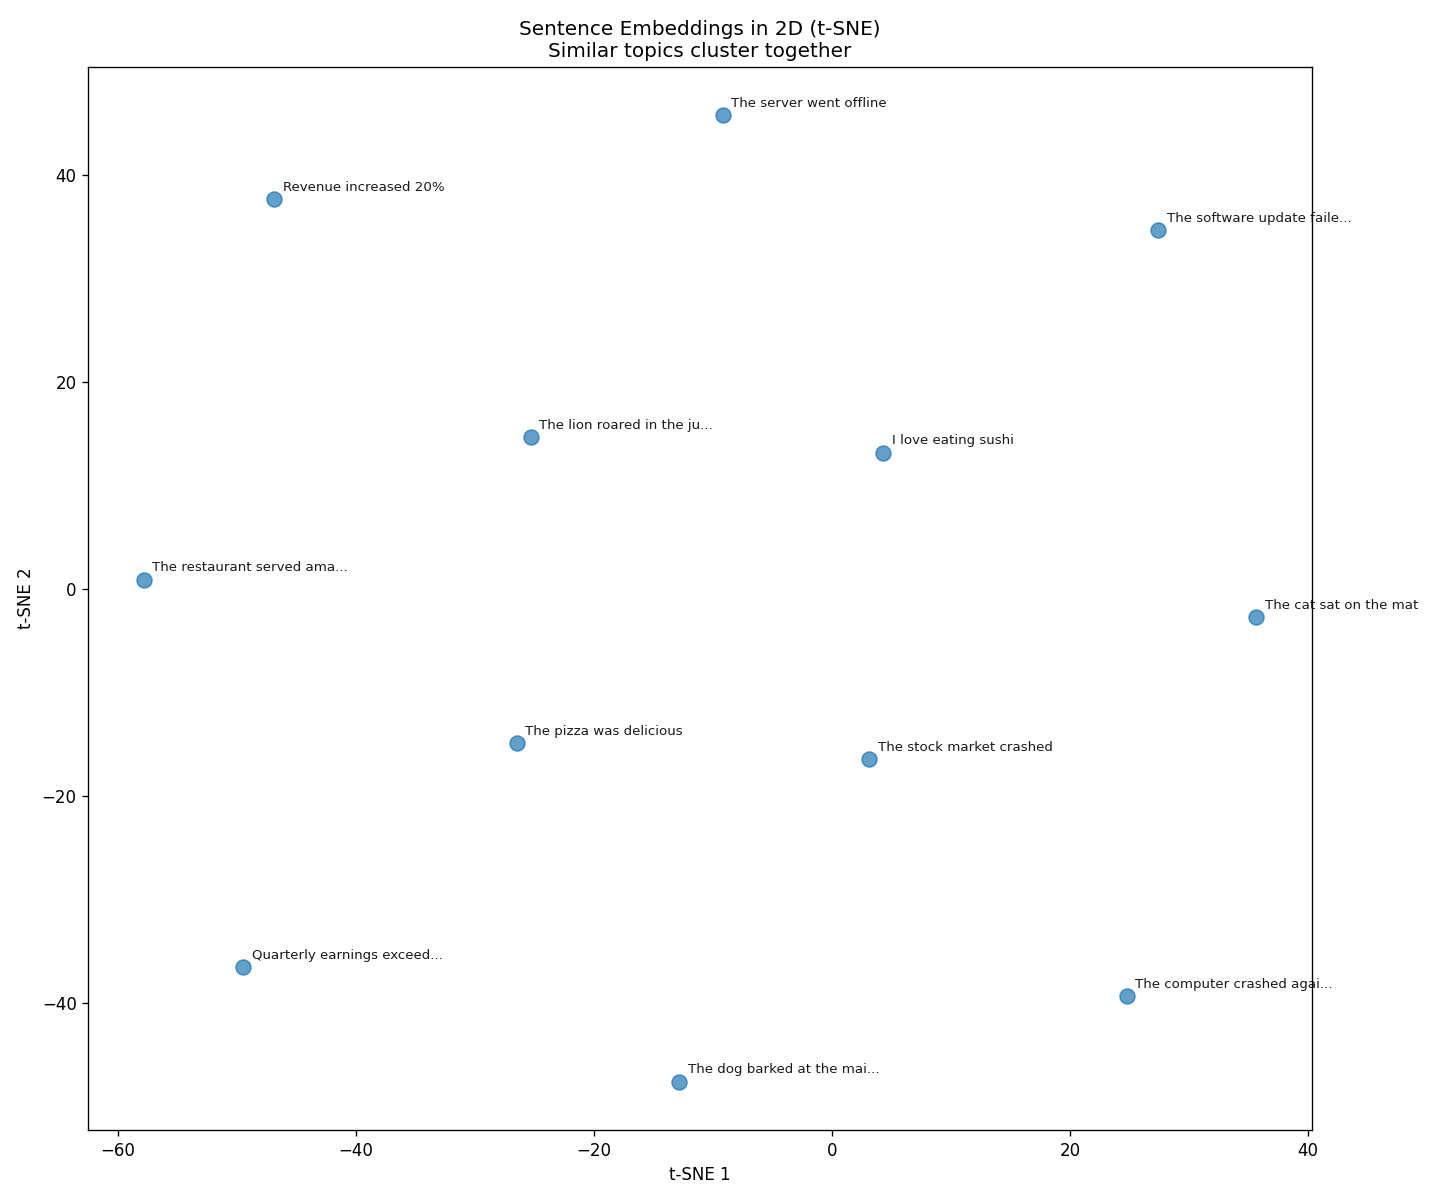
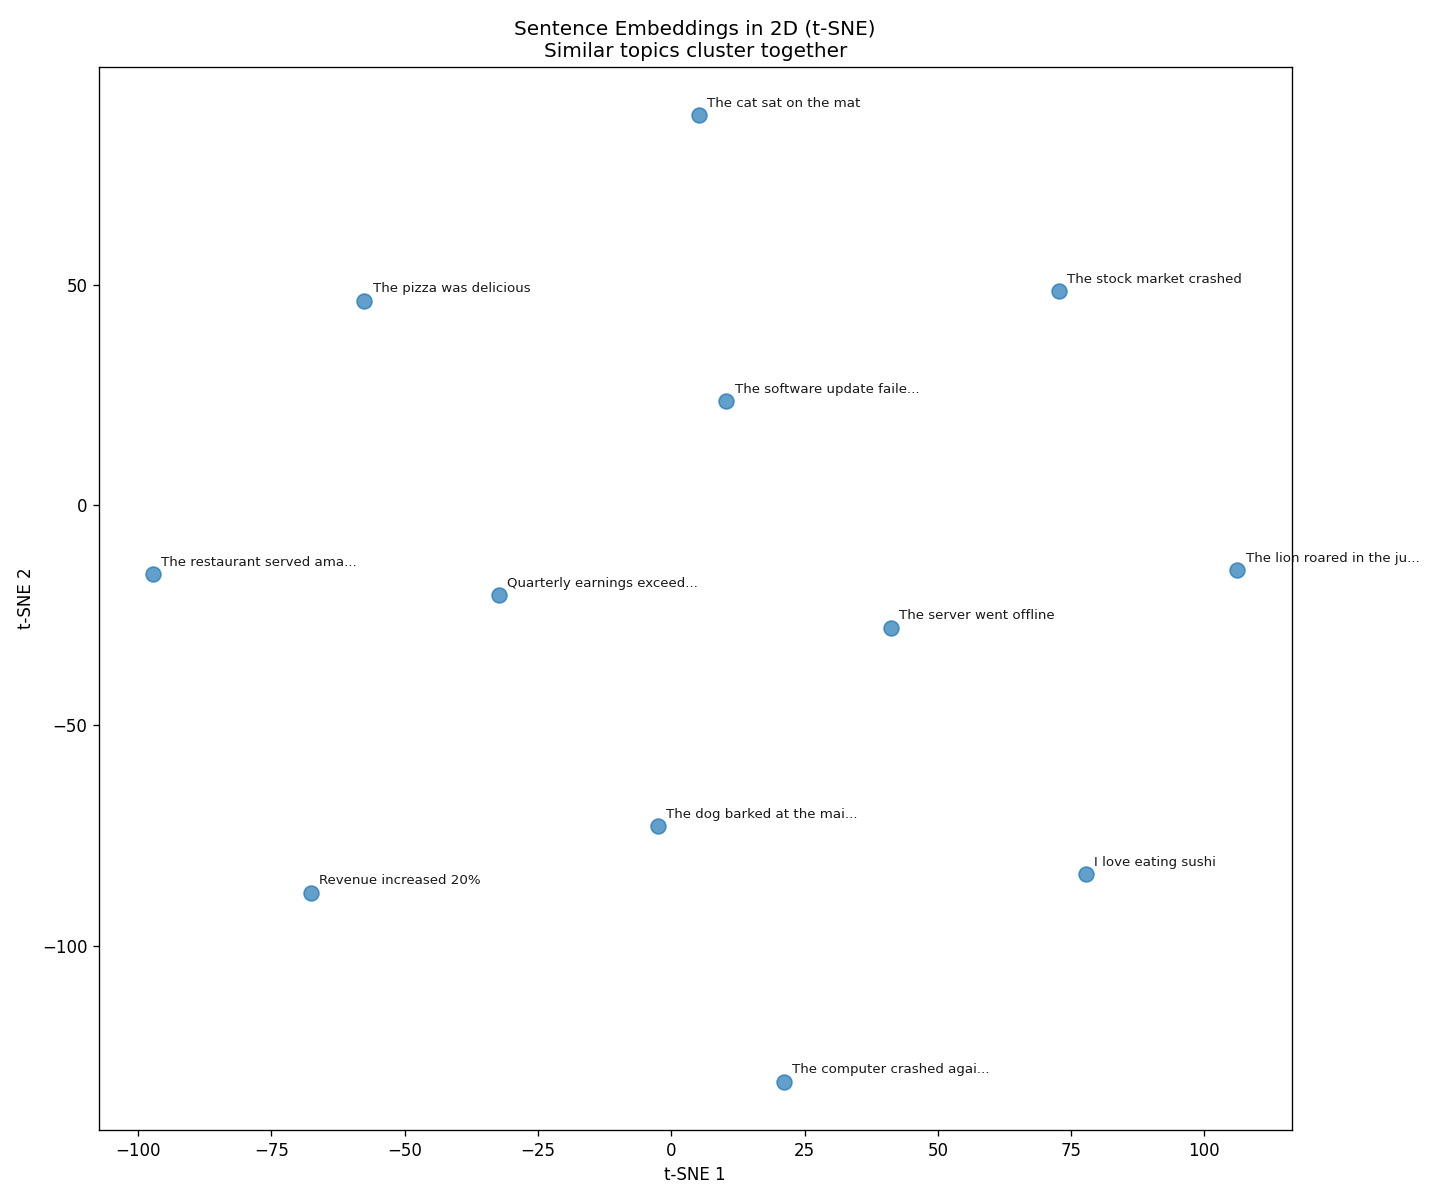
``` chore(Week-4-RAG): update embeddings t-SNE plot visualization
- Replace existing embeddings_tsne_plot.png with updated version
- The new plot reflects improved embedding visualization for RAG system
```

diff --git a/Week-4-RAG/l3_a_embeddings_tsne_viz.py b/Week-4-RAG/l3_a_embeddings_tsne_viz.py
@@ -1,0 +1,95 @@
+import os
+from pathlib import Path
+
+import numpy as np
+import matplotlib.pyplot as plt
+from sklearn.manifold import TSNE
+from openai import OpenAI
+
+# Optional: load .env for OPENAI_API_KEY
+try:
+    from dotenv import load_dotenv
+    load_dotenv()
+except ImportError:
+    pass
+
+SENTENCES = [
+    # Animals
+    "The cat sat on the mat",
+    "The dog barked at the mailman",
+    "The lion roared in the jungle",
+    # Technology
+    "The computer crashed again",
+    "The software update failed",
+    "The server went offline",
+    # Finance
+    "The stock market crashed",
+    "Revenue increased 20%",
+    "Quarterly earnings exceeded expectations",
+    # Food
+    "The pizza was delicious",
+    "I love eating sushi",
+    "The restaurant served amazing pasta",
+]
+
+
+def main():
+    print("=" * 60)
+    print("DEMO: Embeddings → t-SNE 2D Visualization")
+    print("=" * 60)
+
+    if not os.getenv("OPENAI_API_KEY"):
+        print("\n⚠  Set OPENAI_API_KEY (e.g. in .env or export).")
+        return
+
+    client = OpenAI()
+    print(f"\nEmbedding {len(SENTENCES)} sentences with text-embedding-3-small...")
+
+    embeddings = []
+    for sentence in SENTENCES:
+        response = client.embeddings.create(
+            model="text-embedding-3-small", # 1536 dimensions
+            input=sentence,
+        )
+        embeddings.append(response.data[0].embedding)
+
+    embeddings = np.array(embeddings)  # shape: (12, 1536)
+    print(f"  Shape: {embeddings.shape}")
+
+    print("Reducing 1536D → 2D with t-SNE...")
+    n_samples = embeddings.shape[0]
+    perplexity = min(30, max(2, n_samples - 1))  # must be < n_samples
+    tsne = TSNE(n_components=2, perplexity=perplexity, random_state=42)
+    embeddings_2d = tsne.fit_transform(embeddings)
+
+    print("Plotting...")
+    fig, ax = plt.subplots(figsize=(12, 10))
+    ax.scatter(embeddings_2d[:, 0], embeddings_2d[:, 1], s=80, alpha=0.7)
+
+    for i, sentence in enumerate(SENTENCES):
+        label = sentence[:25] + ("..." if len(sentence) > 25 else "")
+        ax.annotate(
+            label,
+            (embeddings_2d[i, 0], embeddings_2d[i, 1]),
+            xytext=(5, 5),
+            textcoords="offset points",
+            fontsize=8,
+            alpha=0.9,
+        )
+
+    ax.set_title("Sentence Embeddings in 2D (t-SNE)\nSimilar topics cluster together")
+    ax.set_xlabel("t-SNE 1")
+    ax.set_ylabel("t-SNE 2")
+
+    out_path = Path(__file__).resolve().parent / "embeddings_tsne_plot.png"
+    plt.tight_layout()
+    plt.savefig(out_path, dpi=120)
+    print(f"  Saved: {out_path}")
+
+    plt.show()
+    print("\n✅ Animals, tech, finance, food should form loose clusters in the plot.")
+    print("=" * 60)
+
+
+if __name__ == "__main__":
+    main()

diff --git a/Week-4-RAG/l3_b_semantic_similaroty.py b/Week-4-RAG/l3_b_semantic_similaroty.py
@@ -1,0 +1,52 @@
+
+from pathlib import Path
+import numpy as np
+from langchain_openai import OpenAIEmbeddings
+from dotenv import load_dotenv  
+
+load_dotenv()
+SAMPLE_SENTENCES = [
+    "The cat sat on the mat.",
+    "The feline rested on the rug.",
+    "I love eating pizza.",
+    "The dog barked at the mailman.",
+]
+
+query = "Where is the cat?"
+
+def main():
+    print("=" * 60)
+    print("DEMO: Semantic Similarity")
+    print("=" * 60)
+
+    embeddings_model = OpenAIEmbeddings(model="text-embedding-3-small")
+    embeddings = embeddings_model.embed_documents(SAMPLE_SENTENCES)
+    query_embedding = embeddings_model.embed_query(query)
+
+    embeddings = np.array(embeddings)
+    query_embedding = np.array(query_embedding)
+    def cosine_similarity(a, b):
+        return np.dot(a, b) / (np.linalg.norm(a) * np.linalg.norm(b))
+
+    print("\nCosine Similarity Matrix:")
+    print("-" * 60)
+    n = len(SAMPLE_SENTENCES)
+    header = "".join(f" | Sent {i+1}" for i in range(n))
+    print(f"{'':<30}{header}")
+    print("-" * 60)
+    for i, sent1 in enumerate(SAMPLE_SENTENCES):
+        row = f"{sent1[:28]:<28} |"
+        for j in range(n):
+            sim = cosine_similarity(embeddings[i], embeddings[j])
+            row += f"  {sim:.3f}  |"
+        print(row)
+    print("-" * 60)
+    print("Similar sentences should have high similarity scores.")
+    print("Query: ", query)
+    print(f"Similarity between query and first sentence: {cosine_similarity(query_embedding, embeddings[0])}")
+    print(f"Similarity between query and second sentence: {cosine_similarity(query_embedding, embeddings[1])}")
+    print(f"Similarity between query and third sentence: {cosine_similarity(query_embedding, embeddings[2])}")
+    print(f"Similarity between query and fourth sentence: {cosine_similarity(query_embedding, embeddings[3])}") 
+
+if __name__ == "__main__":
+    main()

diff --git a/Week-4-RAG/l2_e_doc_loaders.py b/Week-4-RAG/l2_e_doc_loaders.py
@@ -1,0 +1,30 @@
+from langchain_community.document_loaders import PyPDFLoader, PDFPlumberLoader
+
+loader = PyPDFLoader("test_documents/financial_report.pdf")
+
+docs = loader.load()
+
+for doc in docs:
+    print(f"data type is {type(doc)}")
+    print(f"page content: {doc.page_content}")
+    print(f"metadata: {doc.metadata}")
+    print("Full document:")
+    print(doc)
+    print("-" * 50)
+
+# output:
+# data type is <class 'langchain_community.document.Document'>
+# page content: This is a test document.
+# metadata: {'source': 'test_documents/financial_report.pdf', 'page': 1}
+# --------------------------------------------------
+
+print("Using PDFPlumberLoader:")
+loader = PDFPlumberLoader("1810.04805v2.pdf")
+docs = loader.load()
+for doc in docs:
+    print(f"data type is {type(doc)}")
+    print(f"page content: {doc.page_content}")
+    print(f"metadata: {doc.metadata}")
+    print("Full document:")
+    print(doc)
+    print("-" * 50)
